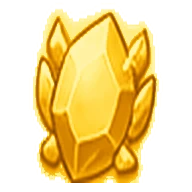
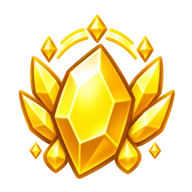
Thay ảnh đá nâng cấp cấp 2 và 3, thêm lệnh npm run deploy

diff --git a/design/tools/stones.html b/design/tools/stones.html
@@ -1,11 +1,11 @@
-<!doctype html><meta charset="utf-8">
+<!doctype html><meta charset="utf-8">
 <!-- Đá nâng cấp vẽ lại (nền trắng) → WebP nền trong suốt, dời hình vào giữa khung như upgrade.html (mode 'center').
      Nền trắng nối từ mép → trong suốt kiểu "color to alpha" (mép mịn), điểm xám/trắng ít bão hoà ở mép → bỏ hẳn; mặt sáng bên trong viên đá giữ nguyên.
      Gốc: design/source/stones/stone_<hệ>_<cấp>.png · Chạy: node design/tools/extract.mjs stones.html assets/upgrade-ui
      Thêm cấp mới: chép ảnh vào design/source/stones/ rồi thêm tên vào LIST. -->
 <pre id="out"></pre>
 <script>
-const LIST = ['stone_moc_1', 'stone_thuy_1', 'stone_hoa_1', 'stone_kim_1', 'stone_tho_1'];
+const LIST = ['stone_moc_1', 'stone_thuy_1', 'stone_hoa_1', 'stone_kim_1', 'stone_tho_1', 'stone_moc_2', 'stone_thuy_2', 'stone_hoa_2', 'stone_kim_2', 'stone_tho_2', 'stone_moc_3', 'stone_thuy_3', 'stone_hoa_3', 'stone_kim_3', 'stone_tho_3'];
 const load = n => new Promise(ok => { const i = new Image(); i.onload = () => ok(i); i.src = `../source/stones/${n}.png`; });
 (async () => {
   const out = {};
